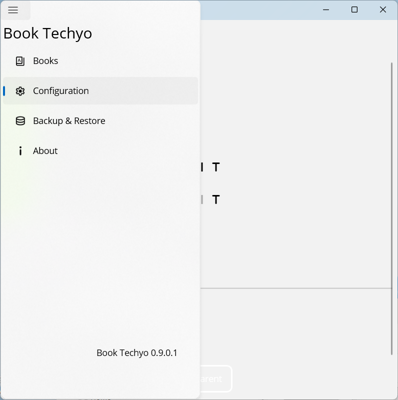
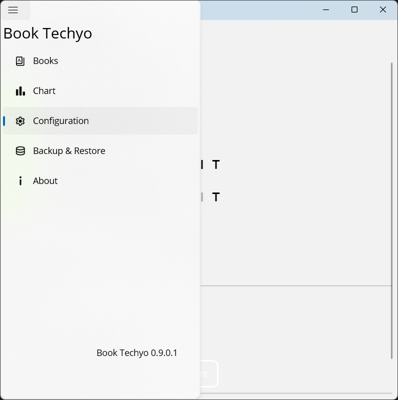
added the statistics page

diff --git a/docs/maui/en-US/windows/maui.md b/docs/maui/en-US/windows/maui.md
@@ -15,30 +15,31 @@ Table of contents
     - [2-4. Exiting Book Techyo](#2-4-exiting-book-techyo)
   - [3. Menu](#3-menu)
     - [3-1. Books](#3-1-books)
-    - [3-1-1. Registering a Book Record](#3-1-1-registering-a-book-record)
+      - [3-1-1. Registering a Book Record](#3-1-1-registering-a-book-record)
       - [3-1-1-1. Barcode Scanning](#3-1-1-1-barcode-scanning)
         - [3-1-1-1-A. Notes on Barcode Scanning](#3-1-1-1-a-notes-on-barcode-scanning)
       - [3-1-1-2. Searching the Internet by Book Title](#3-1-1-2-searching-the-internet-by-book-title)
       - [3-1-1-3. Adding an Empty Record](#3-1-1-3-adding-an-empty-record)
-    - [3-1-2. Enter, edit, or delete book records](#3-1-2-enter-edit-or-delete-book-records)
+      - [3-1-2. Enter, edit, or delete book records](#3-1-2-enter-edit-or-delete-book-records)
       - [3-1-2-1. Trophy](#3-1-2-1-trophy)
       - [3-1-3. Search and sort book records](#3-1-3-search-and-sort-book-records)
-      - [3-1-3-1. Searching by Title, etc](#3-1-3-1-searching-by-title-etc)
-      - [3-1-3-2. Filtering by Status and Sorting](#3-1-3-2-filtering-by-status-and-sorting)
-  - [3-2. Configuration](#3-2-configuration)
-    - [3-2-1. Enable/disable book search services and set their priority](#3-2-1-enabledisable-book-search-services-and-set-their-priority)
-    - [3-2-2. Maximum number of results retrieved from each book search service](#3-2-2-maximum-number-of-results-retrieved-from-each-book-search-service)
-      - [3-2-3. Whether to show book cover images](#3-2-3-whether-to-show-book-cover-images)
-    - [3-2-4. Background color setting for book cover images](#3-2-4-background-color-setting-for-book-cover-images)
-    - [3-2-5. Button to open the app settings](#3-2-5-button-to-open-the-app-settings)
-  - [3-3. Backup and Restore](#3-3-backup-and-restore)
-    - [3-3-1. Backup button](#3-3-1-backup-button)
-    - [3-3-2. Restore button](#3-3-2-restore-button)
-    - [3-3-3. Delete all button](#3-3-3-delete-all-button)
-    - [4-4. External services](#4-4-external-services)
-      - [4-4-1. '読書管理ビブリア'](#4-4-1-読書管理ビブリア)
-  - [5. About Book Techyo](#5-about-book-techyo)
-  - [6. Contact](#6-contact)
+        - [3-1-3-1. Searching by Title, etc](#3-1-3-1-searching-by-title-etc)
+        - [3-1-3-2. Filtering by Status and Sorting](#3-1-3-2-filtering-by-status-and-sorting)
+    - [3-2. Chart](#3-2-chart)
+    - [3-3. Configuration](#3-3-configuration)
+      - [3-3-1. Enable/disable book search services and set their priority](#3-3-1-enabledisable-book-search-services-and-set-their-priority)
+      - [3-3-2. Maximum number of results retrieved from each book search service](#3-3-2-maximum-number-of-results-retrieved-from-each-book-search-service)
+      - [3-3-3. Whether to show book cover images](#3-3-3-whether-to-show-book-cover-images)
+      - [3-3-4. Background color setting for book cover images](#3-3-4-background-color-setting-for-book-cover-images)
+      - [3-3-5. Button to open the app settings](#3-3-5-button-to-open-the-app-settings)
+    - [3-4. Backup and Restore](#3-4-backup-and-restore)
+      - [3-4-1. Backup button](#3-4-1-backup-button)
+      - [3-4-2. Restore button](#3-4-2-restore-button)
+      - [3-4-3. Delete all button](#3-4-3-delete-all-button)
+      - [3-4-4. External services](#3-4-4-external-services)
+        - [3-4-4-1. '読書管理ビブリア'](#3-4-4-1-読書管理ビブリア)
+    - [3-5. About Book Techyo](#3-5-about-book-techyo)
+  - [4. Contact](#4-contact)
 
 ## 1. Description
 
@@ -86,7 +87,7 @@ Upon first launch after installing the app, a message will appear asking you to 
 
 ![terms of use](./images/resized/01_Records_N010_Initial.png)
 
-Click the OK button to close the message, then click the book search service URL on the [Configuration](#3-2-configuration) to review the terms of use. If you do not agree, uncheck the box to opt out.
+Click the OK button to close the message, then click the book search service URL on the [Configuration](#3-3-configuration) to review the terms of use. If you do not agree, uncheck the box to opt out.
 
 ### 2-3. Registering a Book Record
 
@@ -115,7 +116,9 @@ Display a list of book records.
 
 ![Main](./images/resized/01_Records_N211_ImportBibliaCsvFiles.png)
 
-### 3-1-1. Registering a Book Record
+A book record displays the title, authors, status, update date, rating, trophy status, and tags.
+
+#### 3-1-1. Registering a Book Record
 
 Click ![+ icon](../../common/images/add_32dp_1F1F1F_FILL0_wght400_GRAD0_opsz40.png) in **Book Techyo**.
 
@@ -180,7 +183,7 @@ Enter the book title in the text box and click ![Search Start](../../common/imag
   - e.g., `title: 草枕 author: 夏目漱石`
   - You can search by title only or author name only.
   - To retrieve a list of an author's books on Aozora Bunko, enter `author: (book author's name)`.
-- The search service used and maximum number of results per service can be set in the [Configuration](#3-2-configuration).  
+- The search service used and maximum number of results per service can be set in the [Configuration](#3-3-configuration).  
 
 ![Search Results](./images/resized/01_Records_N110_BookSearchPageSearchingByTitle.png)
 
@@ -200,7 +203,7 @@ Click ![Add Empty Record](../../common/images/draft_32dp_1F1F1F_FILL0_wght400_GR
 
 Enter details and click ![apply](../../common/images/check_32dp_1F1F1F_FILL0_wght400_GRAD0_opsz40.png). **Book Techyo** registers it in the list.
 
-### 3-1-2. Enter, edit, or delete book records
+#### 3-1-2. Enter, edit, or delete book records
 
 When you create or open a book record in **Book Techyo**, the [book detail](#3-1-2-enter-edit-or-delete-book-records) will appear.
 
@@ -245,7 +248,7 @@ The Trophy![trophy](../../common/images/trophy_32dp_1F1F1F_FILL0_wght400_GRAD0_o
 
 You can search your registered book records by title or status. You can also sort them by date or other criteria.
 
-#### 3-1-3-1. Searching by Title, etc
+##### 3-1-3-1. Searching by Title, etc
 
 Search book records that contain the specified text in title, author, Memo, or comment.
 
@@ -261,7 +264,7 @@ To clear the search results, click ![Cancel](../../common/images/cancel_32dp_1F1
   - Available item names are title, authors, publisher, memo, comment, and tag. Searches will target only the title, authors, publisher, memo, comment, or tag, respectively.
   - Only one item name can be specified.
 
-#### 3-1-3-2. Filtering by Status and Sorting
+##### 3-1-3-2. Filtering by Status and Sorting
 
 Click ![More](../../common/images/more_horiz_32dp_1F1F1F_FILL0_wght400_GRAD0_opsz40.png) in the top-right of **Book Techyo**, then select [Filter] or [Sort]. The bottom panel will show filter and sorting options.
 
@@ -297,7 +300,17 @@ Direction
 
 To close the filter/sort panel, click [Close] in the top-right or click the list area.
 
-## 3-2. Configuration
+### 3-2. Chart
+
+Click the ![menu](../../common/images/menu_32dp_1F1F1F_FILL0_wght400_GRAD0_opsz40.png) icon at the top left of **Book Techyo**, then select [Chart] from the displayed menu to open the Chart page.
+
+![Chart](./images/resized/02_Settings_N130_Statistics.png)
+
+Displays the number of books registered in the selected year by status in a Column chart.
+
+Below the chart, displays the total number of books finished reading in the year and the total number of books marked with [Trophy].
+
+### 3-3. Configuration
 
 Click the ![menu](../../common/images/menu_32dp_1F1F1F_FILL0_wght400_GRAD0_opsz40.png) icon at the top left of **Book Techyo**, then select [Configuration] from the displayed menu to open the Configuration page.
 
@@ -311,7 +324,7 @@ The Configuration page contains, from top to bottom:
 - Background color setting for book cover images
 - Button to open the app settings
 
-### 3-2-1. Enable/disable book search services and set their priority
+#### 3-3-1. Enable/disable book search services and set their priority
 
 **Before performing a search, please click the URL of the book search service to review its terms of use. If you do not agree, uncheck the box to disable that service.**
 
@@ -330,11 +343,11 @@ If the service’s icon ![barcode](../../common/images/barcode_32dp_1F1F1F_FILL0
 
 - Aozora Bunko, National Diet Library Search performs searches by specifying Aozora Bunko (repository number R000000014) as the data provider in the National Diet Library Search.
 
-### 3-2-2. Maximum number of results retrieved from each book search service
+#### 3-3-2. Maximum number of results retrieved from each book search service
 
 Specify an integer between 3 and 120.
 
-#### 3-2-3. Whether to show book cover images
+#### 3-3-3. Whether to show book cover images
 
 Specifies whether to show book cover images in the books page and similar pages. The default is hidden.
 
@@ -342,7 +355,7 @@ Below is a books page showing images when displayed (with the background color a
 
 ![image on](./images/resized/02_Settings_N040_BooksImageIsDisplay.png)
 
-### 3-2-4. Background color setting for book cover images
+#### 3-3-4. Background color setting for book cover images
 
 Specify the background color for book cover images. The default is transparent.
 
@@ -350,13 +363,13 @@ Clicking the button displays the background color selection popup.
 
 ![color chooser](./images/resized/02_Settings_N020_ConfigurationColorChooser.png)
 
-### 3-2-5. Button to open the app settings
+#### 3-3-5. Button to open the app settings
 
 Click to open the app settings page.
 
 ![AppSettings](./images/resized/21.AppSettings.png)
 
-## 3-3. Backup and Restore
+### 3-4. Backup and Restore
 
 Click the ![menu](../../common/images/menu_32dp_1F1F1F_FILL0_wght400_GRAD0_opsz40.png) icon at the top left of **Book Techyo**, then select [Backup and Restore] from the displayed menu to open the backup and restore page.
 
@@ -369,7 +382,7 @@ The backup and restore page contains, from top to bottom:
 - Delete all button
 - External services
 
-### 3-3-1. Backup button
+#### 3-4-1. Backup button
 
 Click to export your registered book records to a specified file.
 
@@ -377,19 +390,19 @@ Click to export your registered book records to a specified file.
 - The YAML file can be opened and edited with a text editor such as Windows Notepad. If you edit it, make sure not to change the format, character encoding, or line endings.  
 - The YAML file uses UTF-8 (without BOM) encoding and CRLF line endings.
 
-### 3-3-2. Restore button
+#### 3-4-2. Restore button
 
 Click to import book records from the specified file and **add** them to the existing records.
 
 If you want to clear all existing records before restoring, check the [Clear all existing records before restore] checkbox and then click the button.
 
-### 3-3-3. Delete all button
+#### 3-4-3. Delete all button
 
 Click to delete all registered book records.
 
-### 4-4. External services
+#### 3-4-4. External services
 
-#### 4-4-1. '読書管理ビブリア'
+##### 3-4-4-1. '読書管理ビブリア'
 
 - **Import**: Import the [CSV file](https://biblia978.com/support/articles/15/) exported to Dropbox[^3] by [読書管理ビブリア](https://biblia978.com/).  
 - **Export**: Export registered book records to a [CSV file](https://biblia978.com/support/articles/15/) that can be restored by [読書管理ビブリア](https://biblia978.com/).
@@ -407,7 +420,7 @@ Click to delete all registered book records.
   2. Upload the `books.csv` file to `Dropbox/Apps/Biblia` using Dropbox Lite.  
   3. In 読書管理ビブリア, delete all existing data and then perform a restore.
 
-## 5. About Book Techyo
+### 3-5. About Book Techyo
 
 Click the ![menu](../../common/images/menu_32dp_1F1F1F_FILL0_wght400_GRAD0_opsz40.png) icon at the top left of **Book Techyo**, then select [About Book Techyo] from the displayed menu to open the about page.
 
@@ -423,7 +436,7 @@ Clicking [OSS License] displays the OSS licenses used by **Book Techyo** on the 
 
 ![OSS license](./images/resized/02_Settings_N120_About_ShowOssLicenses.png)
 
-## 6. Contact
+## 4. Contact
 
 If you have any questions or inquiries regarding this app, please [contact us via the homepage](https://yamasuto.github.io/BookTechyo.github.io/contact/en-US/).
 
